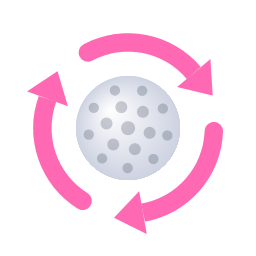
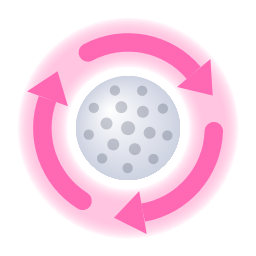
Give the Switcheroo a hot pink model in the player's hands
The held model does not come from ItemData.Prefab, which is the physical pickup
on the course. It comes from an EquipmentType resolved through
EquipmentCollection, chosen by a switch in LocalPlayerUpdateEquipmentSwitchers
that falls through to EquipmentType.None for anything it does not recognise,
which is why the item was invisible in hand.

Registers a custom EquipmentType carrying a pink-recoloured clone of the Orbital
Laser's hand model, and prefixes that switch to handle our item. The method's
visibility rules live in a compiler-generated local function, which is called by
reflection rather than reimplemented so holstering, invisibility and thrown-item
handling keep working. It is located by name prefix because the compiler's index
suffix shifts whenever PlayerInventory is edited; if it cannot be found the
patch stands aside and the hands are simply empty.

Also switches the package icon to the glowing variant and matches the in-game
inventory sprite to it.

Claude-Session: https://claude.ai/code/session_014TQAER9zU77sZrKVK4HHsf

Changed region(s): [[0.0625, 0.0625, 0.9375, 0.9375]]

diff --git a/src/BallSwapItem/SwitcherooEquipment.cs b/src/BallSwapItem/SwitcherooEquipment.cs
@@ -1,0 +1,187 @@
+using System;
+using System.Linq;
+using System.Reflection;
+using HarmonyLib;
+using UnityEngine;
+
+namespace BallSwapItem;
+
+/// <summary>
+/// Gives the Switcheroo something to hold.
+///
+/// The model in a player's hands is not <see cref="ItemData.Prefab"/> — that is the physical
+/// pickup lying on the course. Held models come from a separate system: an
+/// <see cref="EquipmentType"/> resolved through <see cref="EquipmentCollection"/>, chosen by a
+/// switch in PlayerInventory that falls through to EquipmentType.None for any item it does not
+/// recognise. That fall-through is why the Switcheroo was invisible in hand.
+///
+/// So we register our own equipment type carrying a hot pink clone of the Orbital Laser's hand
+/// model, and teach that switch about it.
+/// </summary>
+internal static class SwitcherooEquipment
+{
+    /// <summary>Well clear of the game's own EquipmentType range (None..JumboBurger, 0..23).</summary>
+    public const EquipmentType Type = (EquipmentType)200;
+
+    private static EquipmentSettings? settings;
+    private static bool failedOnce;
+
+    /// <summary>
+    /// The collection initializes when a match loads its assets, which may be after the player
+    /// already holds something, so registration is also driven from the point of use.
+    /// </summary>
+    public static void EnsureRegistered()
+    {
+        if (!SingletonBehaviour<EquipmentManager>.HasInstance)
+        {
+            return;
+        }
+
+        EquipmentCollection? collection = SingletonBehaviour<EquipmentManager>.Instance.equipmentCollection;
+        if (collection != null)
+        {
+            Register(collection);
+        }
+    }
+
+    public static void Register(EquipmentCollection collection)
+    {
+        if (!Plugin.Enabled.Value || failedOnce)
+        {
+            return;
+        }
+
+        try
+        {
+            settings ??= Build(collection);
+            if (settings is null)
+            {
+                return;
+            }
+
+            if (Array.IndexOf(collection.equipment, settings) < 0)
+            {
+                EquipmentSettings[] all = collection.equipment;
+                Array.Resize(ref all, all.Length + 1);
+                all[^1] = settings;
+                collection.equipment = all;
+            }
+
+            collection.equipmentDictionary[Type] = settings;
+        }
+        catch (Exception e)
+        {
+            failedOnce = true;
+            Plugin.Log.LogError($"Could not register the Switcheroo's held model: {e}");
+        }
+    }
+
+    private static EquipmentSettings? Build(EquipmentCollection collection)
+    {
+        if (!collection.TryGetEquipmentSettings(EquipmentType.OrbitalLaser, out EquipmentSettings donor)
+            || donor.Prefab == null)
+        {
+            // Not loaded yet; the next Initialize retries.
+            return null;
+        }
+
+        // Same reason as the pickup prefab: cloning an active prefab runs the clone's Awake
+        // outside the game's own flow.
+        GameObject donorObject = donor.Prefab.gameObject;
+        bool wasActive = donorObject.activeSelf;
+        donorObject.SetActive(false);
+
+        GameObject clone;
+        try
+        {
+            clone = UnityEngine.Object.Instantiate(donorObject);
+        }
+        finally
+        {
+            donorObject.SetActive(wasActive);
+        }
+
+        clone.name = "SwitcherooEquipment";
+        UnityEngine.Object.DontDestroyOnLoad(clone);
+        Switcheroo.Recolour(clone);
+
+        Equipment equipment = clone.GetComponent<Equipment>();
+        equipment.Type = Type;
+
+        EquipmentSettings built = new();
+        built.Type = Type;
+        built.Prefab = equipment;
+
+        Plugin.Log.LogInfo($"Built the Switcheroo's held model as EquipmentType {(int)Type}.");
+        return built;
+    }
+}
+
+[HarmonyPatch(typeof(EquipmentCollection), nameof(EquipmentCollection.Initialize))]
+internal static class EquipmentCollectionInitializePatch
+{
+    private static void Postfix(EquipmentCollection __instance) => SwitcherooEquipment.Register(__instance);
+}
+
+/// <summary>
+/// Puts the Switcheroo's model in the player's right hand.
+///
+/// The game's mapping is a switch expression inside LocalPlayerUpdateEquipmentSwitchers, so
+/// there is no seam to extend — we handle our own item and let every other item run the
+/// original. The method's visibility rules live in a local function, which the compiler emits
+/// as a real method we can call, so holstering, invisibility and thrown-item handling keep
+/// working rather than being reimplemented here.
+/// </summary>
+[HarmonyPatch(typeof(PlayerInventory), "LocalPlayerUpdateEquipmentSwitchers")]
+internal static class EquipmentSwitcherPatch
+{
+    private static readonly MethodInfo? CanHoldEquipment = FindCanHoldEquipment();
+
+    private static bool Prefix(PlayerInventory __instance)
+    {
+        if (__instance.GetEffectivelyEquippedItem() != Switcheroo.Type)
+        {
+            return true;
+        }
+
+        SwitcherooEquipment.EnsureRegistered();
+
+        if (CanHoldEquipment is null)
+        {
+            // Fall through to the original, which leaves the hands empty. Losing the model is a
+            // far better failure than second-guessing when equipment may be shown.
+            return true;
+        }
+
+        bool canHold = (bool)CanHoldEquipment.Invoke(__instance, null);
+        bool rightHandFree = !__instance.thrownItem.HasFlag(PlayerInventory.ThrownItemHand.Right);
+
+        __instance.PlayerInfo.RightHandEquipmentSwitcher.SetEquipment(
+            canHold && rightHandFree ? SwitcherooEquipment.Type : EquipmentType.None);
+        __instance.PlayerInfo.LeftHandEquipmentSwitcher.SetEquipment(EquipmentType.None);
+
+        return false;
+    }
+
+    /// <summary>
+    /// Located by name prefix: the compiler appends an index to local function names that shifts
+    /// whenever the surrounding class is edited, so matching the whole name would break on a
+    /// game update that touches PlayerInventory at all.
+    /// </summary>
+    private static MethodInfo? FindCanHoldEquipment()
+    {
+        MethodInfo? found = AccessTools.GetDeclaredMethods(typeof(PlayerInventory))
+            .FirstOrDefault(m =>
+                m.Name.StartsWith("<LocalPlayerUpdateEquipmentSwitchers>g__CanHoldEquipment", StringComparison.Ordinal)
+                && m.ReturnType == typeof(bool)
+                && m.GetParameters().Length == 0);
+
+        if (found is null)
+        {
+            Plugin.Log.LogWarning(
+                "Could not find PlayerInventory's CanHoldEquipment; the Switcheroo will not show in hand.");
+        }
+
+        return found;
+    }
+}

diff --git a/src/BallSwapItem/Switcheroo.cs b/src/BallSwapItem/Switcheroo.cs
@@ -19,7 +19,7 @@ internal static class Switcheroo
     public const string DisplayName = "Switcheroo";
 
     /// <summary>Hot pink #FF69B4, the agreed device colour.</summary>
-    private static readonly Color DeviceColor = new(1f, 105f / 255f, 180f / 255f, 1f);
+    internal static readonly Color DeviceColor = new(1f, 105f / 255f, 180f / 255f, 1f);
 
     private static ItemData? itemData;
     private static bool failedOnce;
@@ -129,7 +129,14 @@ internal static class Switcheroo
         prefab.name = "SwitcherooItem";
         UnityEngine.Object.DontDestroyOnLoad(prefab);
 
-        foreach (Renderer renderer in prefab.GetComponentsInChildren<Renderer>(includeInactive: true))
+        Recolour(prefab);
+        return prefab;
+    }
+
+    /// <summary>Tints every renderer on a cloned device hot pink.</summary>
+    internal static void Recolour(GameObject target)
+    {
+        foreach (Renderer renderer in target.GetComponentsInChildren<Renderer>(includeInactive: true))
         {
             foreach (Material material in renderer.materials)
             {
@@ -144,8 +151,6 @@ internal static class Switcheroo
                 }
             }
         }
-
-        return prefab;
     }
 
     private static Sprite? BuildIcon()
